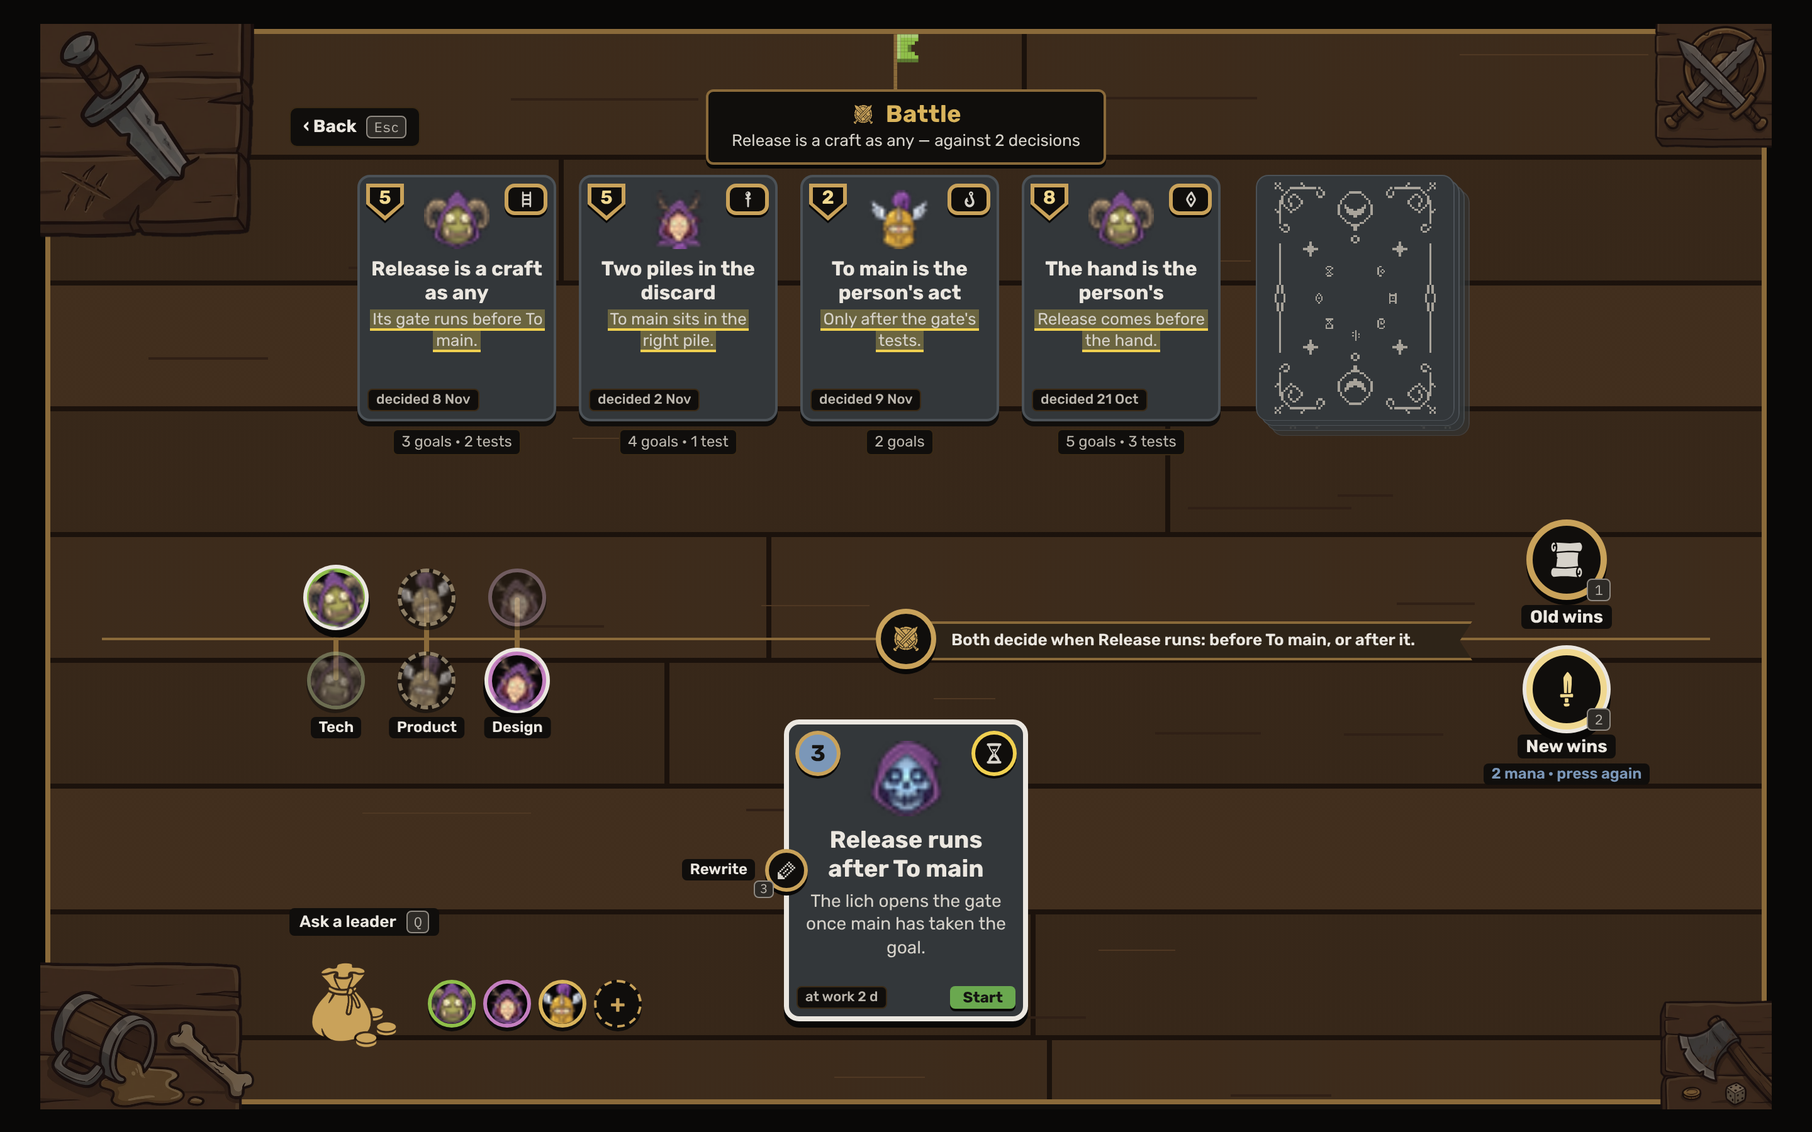
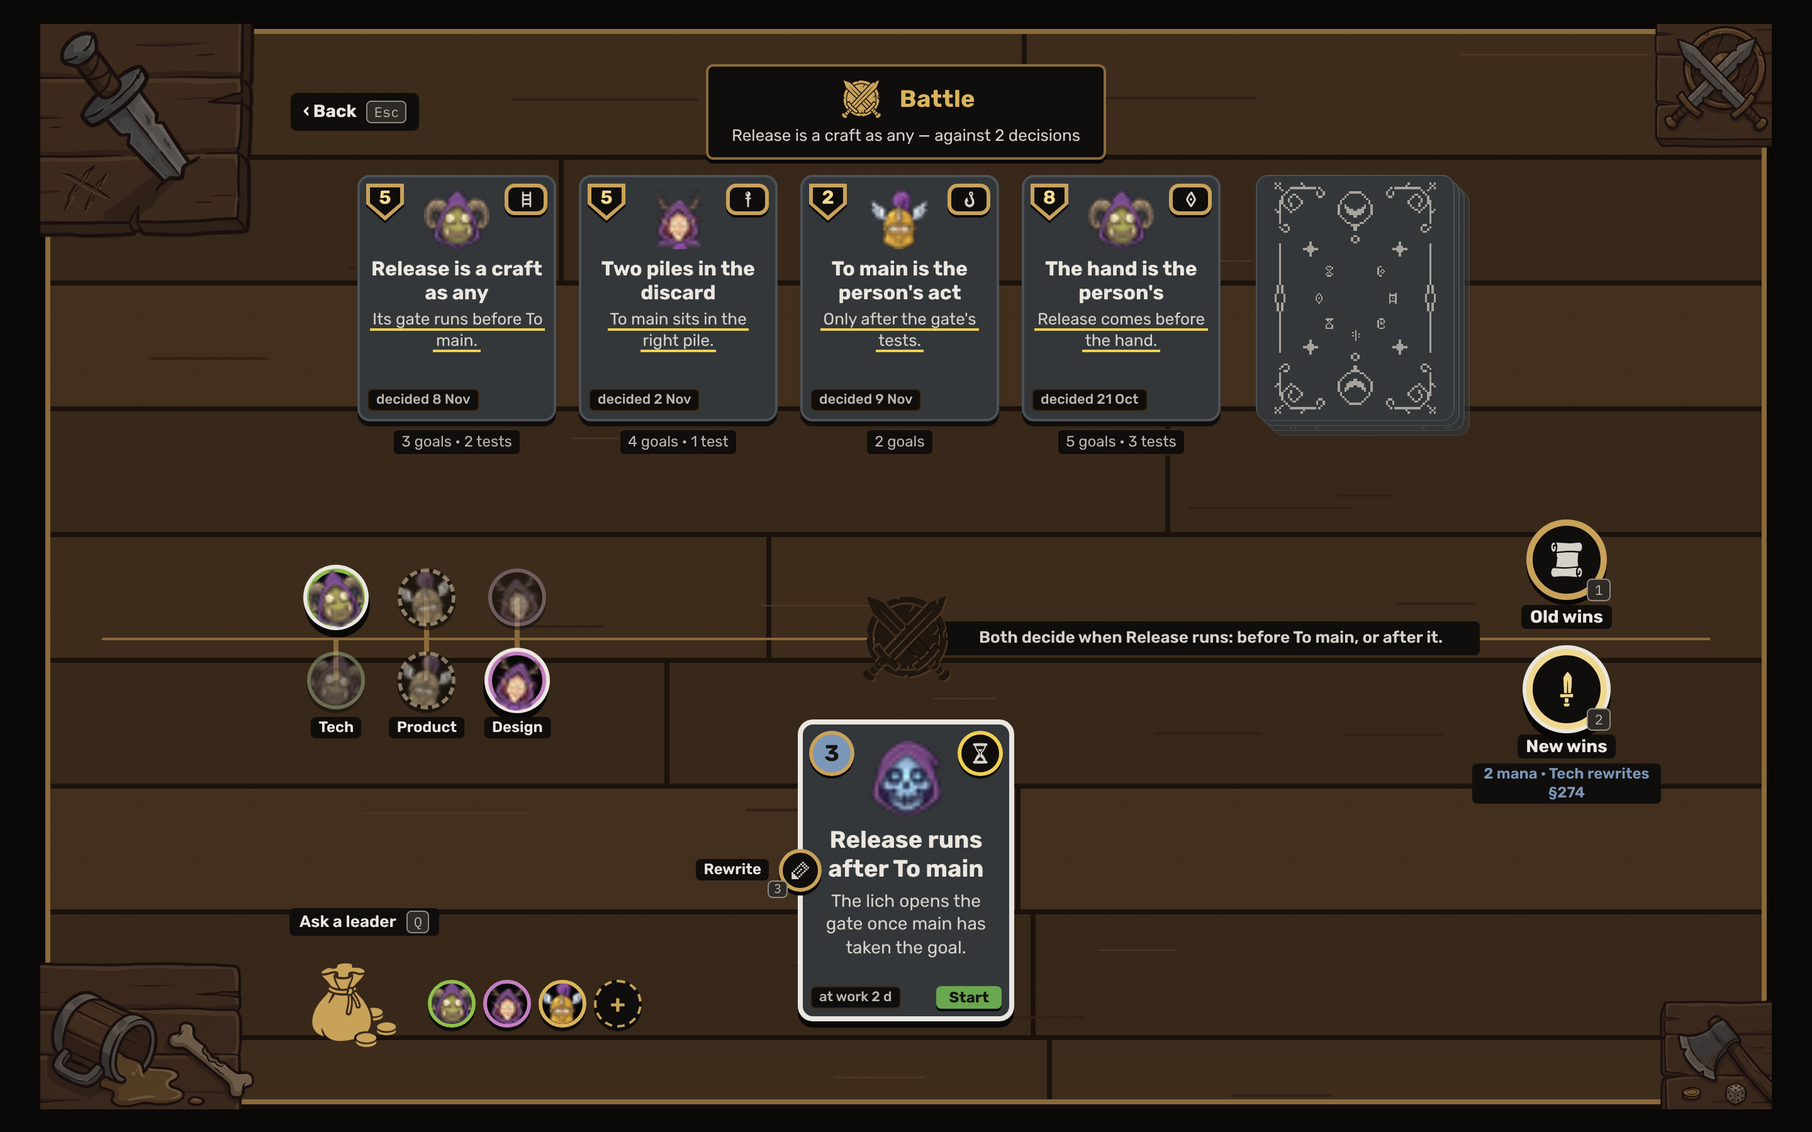
The battle field's mockup: no pennant, the emblem large in the title and carved into the table on the line; the price of New wins says what it pays for; on S the kind wins, the rune from M
Claude-Session: https://claude.ai/code/session_01MCU3dnmwpxzAdFr5WE7TTZ

diff --git a/docs/mockups/battle-field/index.html b/docs/mockups/battle-field/index.html
@@ -12,12 +12,12 @@
   --wood-c: color-mix(in srgb, var(--ork-leather) 50%, var(--ork-room)); --seam: color-mix(in srgb, var(--ork-leather-edge) 55%, var(--ork-room));
   --grain: color-mix(in srgb, var(--ork-leather-lo) 60%, var(--ork-room)); --grain-hi: color-mix(in srgb, var(--ork-leather) 62%, var(--ork-room));
   --ph: 96px; --sm: 4px;
-  --cw: 158px; --nw: 190px; --tk: 46px; --chp: 64px; --pouch: 100px; --pad: 112px; --prop: 170px; --em: 20px; }
+  --cw: 158px; --nw: 168px; --tk: 46px; --chp: 64px; --pouch: 100px; --pad: 112px; --prop: 170px; --em: 40px; }
 * { box-sizing: border-box; }
 html, body { margin: 0; height: 100%; }
 body { background: var(--ork-room); color: var(--ork-ink); font: var(--ork-type-body); overflow: hidden; }
 body[data-face="desk"] { width: 1440px; height: 900px; }
-body[data-face="phone"] { width: 390px; height: 844px; --ph: 80px; --cw: 96px; --nw: 176px; --tk: 38px; --chp: 56px; --pouch: 56px; --pad: 100px; --prop: 91px; }
+body[data-face="phone"] { width: 390px; height: 844px; --ph: 80px; --cw: 96px; --nw: 168px; --tk: 38px; --chp: 56px; --pouch: 56px; --pad: 100px; --prop: 91px; --em: 32px; }
 .stage { position: absolute; inset: 2.5%; }
 .field { position: absolute; inset: 0; border: 4px solid var(--ork-bronze); border-radius: var(--ork-radius-card); box-shadow: 0 4px 0 var(--ork-plate);
   overflow: hidden; display: flex; flex-direction: column;
@@ -34,19 +34,18 @@ body[data-face="phone"] { width: 390px; height: 844px; --ph: 80px; --cw: 96px; -
 .prop img { display: block; max-width: var(--prop); max-height: var(--prop); width: auto; height: auto; }
 .prop.tl { left: -4px; top: -4px; } .prop.tr { right: -4px; top: -4px; } .prop.bl { left: -4px; bottom: -4px; } .prop.br { right: -4px; bottom: -4px; }
 /* top */
-.top { position: absolute; top: 44px; left: 0; right: 0; display: flex; justify-content: center; z-index: 5; }
-body[data-face="desk"] .back { left: 190px; }
+.top { position: absolute; top: 24px; left: 0; right: 0; display: flex; justify-content: center; z-index: 5; }
+body[data-face="desk"] .back { left: 190px; top: 22px; }
 .back { position: absolute; top: 14px; display: flex; gap: 8px; align-items: center; padding: 6px 10px; font: var(--ork-type-button);
   background: var(--ork-plate); border: 1px solid var(--ork-bronze-lo); border-radius: var(--ork-radius-control); color: var(--ork-ink); white-space: nowrap; }
 kbd { font: 500 11px/14px var(--ork-font-code); padding: 1px 5px; border: 1px solid var(--ork-edge); border-radius: 4px; color: var(--ork-ink-muted); background: var(--ork-raised); }
 .plate { position: relative; text-align: center; padding: 6px 18px 8px; background: var(--ork-plate); border: 2px solid var(--ork-bronze); border-radius: var(--ork-radius-control); box-shadow: 0 3px 0 var(--ork-room); }
-.plate b { display: flex; justify-content: center; align-items: center; gap: 8px; font: var(--ork-type-title); letter-spacing: var(--ork-type-title-track); color: var(--ork-gilt); }
+.plate b { display: flex; justify-content: center; align-items: center; gap: 10px; min-height: var(--em); font: var(--ork-type-title); letter-spacing: var(--ork-type-title-track); color: var(--ork-gilt); }
 .plate b i { width: var(--em); height: var(--em); background: var(--ork-bronze-hi); -webkit-mask: url(emblems/battle.png) center / contain no-repeat; mask: url(emblems/battle.png) center / contain no-repeat; }
 .plate span { display: block; font: var(--ork-type-caption); color: var(--ork-ink-read); }
-.plate .ork-pennant { position: absolute; left: 50%; bottom: calc(100% + 1px); translate: -50% 0; }
 .plate .full { display: inline; } .plate .short { display: none; }
-body[data-face="phone"] .top { top: 46px; left: 98px; right: 54px; justify-content: flex-start; }
-body[data-face="phone"] .back { left: 0; top: 8px; }
+body[data-face="phone"] .top { top: 26px; left: 98px; right: 54px; justify-content: flex-start; }
+body[data-face="phone"] .back { left: 0; top: 14px; }
 body[data-face="phone"] .plate { margin-left: 74px; flex: 1; padding: 4px 8px 6px; }
 body[data-face="phone"] .plate span { font-size: 12px; line-height: 15px; }
 body[data-face="phone"] .plate .full { display: none; } body[data-face="phone"] .plate .short { display: inline; }
@@ -99,7 +98,7 @@ body[data-face="phone"] .pouchbar .row { gap: 4px; } body[data-face="phone"] .po
 
 /* ---- v3 ---- */
 :root { --ch: 196px; --g: 30px; }
-body[data-face="phone"] { --ch: 140px; --nw: 190px; }
+body[data-face="phone"] { --ch: 140px; --nw: 168px; }
 .oldz { align-items: flex-start; gap: 18px; padding-top: var(--pad); padding-bottom: 70px; }
 .newz { align-items: flex-start; padding-top: 66px; }
 .col { display: flex; flex-direction: column; align-items: center; gap: 6px; position: relative; }
@@ -108,7 +107,7 @@ body[data-face="phone"] { --ch: 140px; --nw: 190px; }
 .card .hd { width: 52px; height: 52px; object-fit: contain; flex: none; }
 .card b.t { font: 700 16px/1.2 var(--ork-font-text); }
 .card .ln { font-size: 13px; line-height: 1.35; color: var(--ork-ink-read); }
-.disp { background: color-mix(in srgb, var(--ork-alert) 30%, transparent); border-bottom: 2px solid var(--ork-alert); padding: 0 2px; -webkit-box-decoration-break: clone; box-decoration-break: clone; }
+.disp { background: none; border-bottom: 2px solid var(--ork-alert); padding: 0 2px; -webkit-box-decoration-break: clone; box-decoration-break: clone; }
 .dbar { display: none; }
 .card.sel { --g: 36px; width: var(--nw); height: auto; padding: 10px 12px 44px; gap: 5px; border-color: var(--ork-ink); box-shadow: 0 0 0 2px var(--ork-ink), 0 5px 0 2px var(--ork-room); }
 .card.sel .hd { width: 66px; height: 66px; } .card.sel b.t { font-size: 19px; } .card.sel .ln { font-size: 14px; }
@@ -153,17 +152,12 @@ body[data-face="phone"] { --ch: 140px; --nw: 190px; }
 .tk.dim { opacity: .5; filter: saturate(.35); }
 .tk.und { border-style: dashed; opacity: .6; filter: saturate(.35); }
 /* the clash */
-.medal { position: absolute; left: 50%; top: 0; width: 48px; height: 48px; translate: -50% -50%; border-radius: 50%; background: var(--ork-plate); border: 4px solid var(--ork-bronze-hi); box-shadow: 0 4px 0 var(--ork-room); z-index: 5; display: grid; place-items: center; }
-.medal i { width: 26px; height: 26px; background: var(--ork-bronze-hi); -webkit-mask: url(emblems/battle.png) center / contain no-repeat; mask: url(emblems/battle.png) center / contain no-repeat; }
-.ribbon { position: absolute; left: 50%; top: -14px; width: 450px; padding: 3px 22px 4px 36px; z-index: 4; background: var(--ork-plaque); border-top: 2px solid var(--ork-bronze); border-bottom: 2px solid var(--ork-bronze);
-  font: 600 13px/20px var(--ork-font-text); color: var(--ork-ink); clip-path: polygon(0 0, 100% 0, calc(100% - 10px) 50%, 100% 100%, 0 100%); }
 /* the move */
 .mv { position: absolute; right: 80px; display: flex; flex-direction: column; align-items: center; gap: 4px; width: 150px; text-align: center; z-index: 4; }
 .mv.up { bottom: 8px; } .mv.dn { top: 8px; }
 .mv b { font: var(--ork-type-heading); font-size: 14px; line-height: 17px; padding: 1px 7px; background: var(--ork-plate); border-radius: 4px; }
 .mv small { font: 600 12px/15px var(--ork-font-text); color: var(--ork-mana); background: var(--ork-plate); padding: 1px 6px; border-radius: 4px; }
 .mv .chip.armed { border-color: var(--ork-gilt-hi); box-shadow: 0 0 0 3px var(--ork-ink), 0 7px 0 3px var(--ork-room); }
-.plate .ork-pennant { scale: 1.4; transform-origin: 50% 100%; }
 /* states */
 body[data-state="preview-new"] .crack { display: block; }
 body[data-state="preview-new"] .oldz .gem.shield { --rim: var(--ork-ink); scale: 1.18; }
@@ -207,9 +201,23 @@ body[data-face="phone"] .pile.thin { display: block; width: 12px; height: var(--
   box-shadow: 4px 0 0 var(--ork-card-frame), 8px 0 0 var(--ork-card), 12px 0 0 var(--ork-card-frame); }
 body[data-face="phone"] .mv { right: 4px; width: 84px; }
 body[data-face="phone"] .mv b { font-size: 12px; line-height: 15px; padding: 1px 5px; } body[data-face="phone"] .mv small { font-size: 11px; line-height: 13px; padding: 1px 4px; }
-body[data-face="phone"] .medal { width: 40px; height: 40px; border-width: 3px; } body[data-face="phone"] .medal i { width: 22px; height: 22px; }
-body[data-face="phone"] .ribbon { left: 50%; translate: -50% 0; top: 52px; width: 204px; padding: 3px 8px 4px; font-size: 11px; line-height: 15px; text-align: center; clip-path: none; border-left: 2px solid var(--ork-bronze); border-right: 2px solid var(--ork-bronze); }
 body[data-face="phone"] .rewrite .lab { top: 8px; }
+
+
+/* the clash: the emblem carved into the table (a groove two steps darker than the planks, a hard 1px light edge lower-right) and plain text on a dark flat plate */
+.medal { --d: 90px; position: absolute; left: 50%; top: 0; width: var(--d); height: var(--d); translate: -50% -50%; z-index: 5; filter: drop-shadow(1px 1px 0 var(--grain-hi)); }
+.medal i { display: block; width: 100%; height: 100%; background: color-mix(in srgb, var(--wood-b) 45%, var(--ork-room)); -webkit-mask: url(emblems/battle.png) center / contain no-repeat; mask: url(emblems/battle.png) center / contain no-repeat; }
+.ribbon { position: absolute; left: 50%; top: -14px; width: 456px; padding: 3px 14px 4px 58px; z-index: 4; background: var(--ork-plate); border-radius: 4px; font: 600 13px/20px var(--ork-font-text); color: var(--ork-ink-read); }
+body[data-face="phone"] .medal { --d: 64px; }
+body[data-face="phone"] .ribbon { left: 40px; translate: none; top: 52px; width: 196px; padding: 3px 8px 4px; font-size: 11px; line-height: 15px; text-align: left; }
+body[data-face="phone"] .mv { right: 2px; width: 96px; }
+body[data-face="phone"] .newz { padding-top: 114px; }
+body[data-face="phone"] .dbar { height: 2px; }
+/* on S the kind wins, the rune from M: a small card's top-right gem shows the kind sign (the decree), the larger card shows the rune */
+.gem .ks { display: none; width: 62%; height: 62%; background: var(--ork-ink-read); -webkit-mask: url(../../../design-system/orkui/signs/page.svg) center / contain no-repeat; mask: url(../../../design-system/orkui/signs/page.svg) center / contain no-repeat; }
+body[data-face="phone"] .card:not(.sel) .gem .ru { display: none; }
+body[data-face="phone"] .card:not(.sel) .gem .ks { display: block; width: 66%; height: 66%; }
+.disp { background: none; }
 </style>
 </head>
 <body data-face="desk">
@@ -220,14 +228,14 @@ body[data-face="phone"] .rewrite .lab { top: 8px; }
 
   <div class="top">
     <span class="back">‹ Back <kbd>Esc</kbd></span>
-    <div class="plate"><span class="ork-pennant" data-party="tech" aria-hidden="true"></span><b><i aria-hidden="true"></i>Battle</b><span><em class="full" style="font-style:normal">Release is a craft as any — against 2 decisions</em><em class="short" style="font-style:normal">against 2 decisions</em></span></div>
+    <div class="plate"><b><i aria-hidden="true"></i>Battle</b><span><em class="full" style="font-style:normal">Release is a craft as any — against 2 decisions</em><em class="short" style="font-style:normal">against 2 decisions</em></span></div>
   </div>
 
   <div class="zone oldz">
-<div class="col"><div class="card" data-kind="decision"><span class="gw tl"><span class="gem shield"><i class="in">5</i></span></span><span class="gw tr"><span class="gem rect"><i class="in"><i class="ru" style="--m:url(../../../design-system/orkui/runes/ladder.svg)"></i></i></span></span><img class="hd" src="../../../design-system/orkui/races/shaman-elder.png" alt=""><b class="t">Release is a craft as any</b><i class="dbar"></i><span class="ln"><span class="disp">Its gate runs before To main.</span></span><span class="when"><em style="font-style:normal" class="full">decided </em>8 Nov</span><svg class="crack" viewBox="0 0 100 140" preserveAspectRatio="none" aria-hidden="true"><polyline points="12,0 28,30 18,52 40,78 30,104 52,140"/><polyline points="78,0 66,24 80,50 62,70 74,96 60,140"/></svg></div><span class="rest"><span class="n">3 goals · 2 tests</span><span class="p">re-check 3 goals · 2 tests</span><span class="pp">re-check 5</span></span></div>
-<div class="col"><div class="card" data-kind="decision"><span class="gw tl"><span class="gem shield"><i class="in">5</i></span></span><span class="gw tr"><span class="gem rect"><i class="in"><i class="ru" style="--m:url(../../../design-system/orkui/runes/staff.svg)"></i></i></span></span><img class="hd" src="../../../design-system/orkui/races/dryad-elder.png" alt=""><b class="t">Two piles in the discard</b><i class="dbar"></i><span class="ln"><span class="disp">To main sits in the right pile.</span></span><span class="when"><em style="font-style:normal" class="full">decided </em>2 Nov</span><svg class="crack" viewBox="0 0 100 140" preserveAspectRatio="none" aria-hidden="true"><polyline points="50,0 40,28 58,56 44,86 60,112 48,140"/><polyline points="90,20 76,44 88,70 72,96"/></svg></div><span class="rest"><span class="n">4 goals · 1 test</span><span class="p">re-check 4 goals · 1 test</span><span class="pp">re-check 5</span></span></div>
-<div class="col"><div class="card" data-kind="decision"><span class="gw tl"><span class="gem shield"><i class="in">2</i></span></span><span class="gw tr"><span class="gem rect"><i class="in"><i class="ru" style="--m:url(../../../design-system/orkui/runes/hook.svg)"></i></i></span></span><img class="hd" src="../../../design-system/orkui/races/unicorn-elder.png" alt=""><b class="t">To main is the person's act</b><i class="dbar"></i><span class="ln"><span class="disp">Only after the gate's tests.</span></span><span class="when"><em style="font-style:normal" class="full">decided </em>9 Nov</span><svg class="crack" viewBox="0 0 100 140" preserveAspectRatio="none" aria-hidden="true"><polyline points="20,0 34,26 24,56 42,84 32,116 46,140"/><polyline points="70,0 82,30 66,58 80,88"/></svg></div><span class="rest"><span class="n">2 goals</span><span class="p">re-check 2 goals</span><span class="pp">re-check 2</span></span></div>
-<div class="col desk-only"><div class="card" data-kind="decision"><span class="gw tl"><span class="gem shield"><i class="in">8</i></span></span><span class="gw tr"><span class="gem rect"><i class="in"><i class="ru" style="--m:url(../../../design-system/orkui/runes/diamond.svg)"></i></i></span></span><img class="hd" src="../../../design-system/orkui/races/shaman-elder.png" alt=""><b class="t">The hand is the person's</b><i class="dbar"></i><span class="ln"><span class="disp">Release comes before the hand.</span></span><span class="when"><em style="font-style:normal" class="full">decided </em>21 Oct</span><svg class="crack" viewBox="0 0 100 140" preserveAspectRatio="none" aria-hidden="true"><polyline points="8,10 26,34 16,64 38,92 28,120 40,140"/><polyline points="64,0 74,28 60,54 78,82 66,112"/></svg></div><span class="rest"><span class="n">5 goals · 3 tests</span><span class="p">re-check 5 goals · 3 tests</span><span class="pp">re-check 8</span></span></div>
+<div class="col"><div class="card" data-kind="decision"><span class="gw tl"><span class="gem shield"><i class="in">5</i></span></span><span class="gw tr"><span class="gem rect"><i class="in"><i class="ru" style="--m:url(../../../design-system/orkui/runes/ladder.svg)"></i><i class="ks"></i></i></span></span><img class="hd" src="../../../design-system/orkui/races/shaman-elder.png" alt=""><b class="t">Release is a craft as any</b><i class="dbar"></i><span class="ln"><span class="disp">Its gate runs before To main.</span></span><span class="when"><em style="font-style:normal" class="full">decided </em>8 Nov</span><svg class="crack" viewBox="0 0 100 140" preserveAspectRatio="none" aria-hidden="true"><polyline points="12,0 28,30 18,52 40,78 30,104 52,140"/><polyline points="78,0 66,24 80,50 62,70 74,96 60,140"/></svg></div><span class="rest"><span class="n">3 goals · 2 tests</span><span class="p">re-check 3 goals · 2 tests</span><span class="pp">re-check 5</span></span></div>
+<div class="col"><div class="card" data-kind="decision"><span class="gw tl"><span class="gem shield"><i class="in">5</i></span></span><span class="gw tr"><span class="gem rect"><i class="in"><i class="ru" style="--m:url(../../../design-system/orkui/runes/staff.svg)"></i><i class="ks"></i></i></span></span><img class="hd" src="../../../design-system/orkui/races/dryad-elder.png" alt=""><b class="t">Two piles in the discard</b><i class="dbar"></i><span class="ln"><span class="disp">To main sits in the right pile.</span></span><span class="when"><em style="font-style:normal" class="full">decided </em>2 Nov</span><svg class="crack" viewBox="0 0 100 140" preserveAspectRatio="none" aria-hidden="true"><polyline points="50,0 40,28 58,56 44,86 60,112 48,140"/><polyline points="90,20 76,44 88,70 72,96"/></svg></div><span class="rest"><span class="n">4 goals · 1 test</span><span class="p">re-check 4 goals · 1 test</span><span class="pp">re-check 5</span></span></div>
+<div class="col"><div class="card" data-kind="decision"><span class="gw tl"><span class="gem shield"><i class="in">2</i></span></span><span class="gw tr"><span class="gem rect"><i class="in"><i class="ru" style="--m:url(../../../design-system/orkui/runes/hook.svg)"></i><i class="ks"></i></i></span></span><img class="hd" src="../../../design-system/orkui/races/unicorn-elder.png" alt=""><b class="t">To main is the person's act</b><i class="dbar"></i><span class="ln"><span class="disp">Only after the gate's tests.</span></span><span class="when"><em style="font-style:normal" class="full">decided </em>9 Nov</span><svg class="crack" viewBox="0 0 100 140" preserveAspectRatio="none" aria-hidden="true"><polyline points="20,0 34,26 24,56 42,84 32,116 46,140"/><polyline points="70,0 82,30 66,58 80,88"/></svg></div><span class="rest"><span class="n">2 goals</span><span class="p">re-check 2 goals</span><span class="pp">re-check 2</span></span></div>
+<div class="col desk-only"><div class="card" data-kind="decision"><span class="gw tl"><span class="gem shield"><i class="in">8</i></span></span><span class="gw tr"><span class="gem rect"><i class="in"><i class="ru" style="--m:url(../../../design-system/orkui/runes/diamond.svg)"></i><i class="ks"></i></i></span></span><img class="hd" src="../../../design-system/orkui/races/shaman-elder.png" alt=""><b class="t">The hand is the person's</b><i class="dbar"></i><span class="ln"><span class="disp">Release comes before the hand.</span></span><span class="when"><em style="font-style:normal" class="full">decided </em>21 Oct</span><svg class="crack" viewBox="0 0 100 140" preserveAspectRatio="none" aria-hidden="true"><polyline points="8,10 26,34 16,64 38,92 28,120 40,140"/><polyline points="64,0 74,28 60,54 78,82 66,112"/></svg></div><span class="rest"><span class="n">5 goals · 3 tests</span><span class="p">re-check 5 goals · 3 tests</span><span class="pp">re-check 8</span></span></div>
     <div class="col"><div class="pile" aria-hidden="true"><div class="ork-card-back"></div><div class="ork-card-back"></div><div class="ork-card-back"></div><div class="ork-card-back"></div></div><div class="pile thin" aria-hidden="true"></div></div>
   </div>
 
@@ -241,7 +249,7 @@ body[data-face="phone"] .rewrite .lab { top: 8px; }
       <div class="lc design"><i class="tie"></i><span class="tk was design dim"><img src="../../../design-system/orkui/races/dryad-elder.png" alt="Design's leader does not back the old card"></span><span class="tk is design lit"><img src="../../../design-system/orkui/races/dryad-elder.png" alt="Design's leader backs the new card"></span><span class="lab desk-only">Design</span></div>
     </div>
     <div class="mv up"><span class="chip" style="--m:url(../../../design-system/orkui/signs/page.svg)"><i></i><kbd>1</kbd></span><b>Old wins</b></div>
-    <div class="mv dn"><span class="chip armed" style="--m:url(../../../design-system/orkui/signs/sword.svg)"><i></i><kbd>2</kbd></span><b>New wins</b><small>2 mana · press again</small></div>
+    <div class="mv dn"><span class="chip armed" style="--m:url(../../../design-system/orkui/signs/sword.svg)"><i></i><kbd>2</kbd></span><b>New wins</b><small>2 mana · Tech rewrites §274</small></div>
   </div>
 
   <div class="zone newz">
@@ -260,7 +268,7 @@ body[data-face="phone"] .rewrite .lab { top: 8px; }
 </div>
 <div class="veil" aria-hidden="true"></div>
 <div class="lift"><span class="close">Esc · Back</span>
-  <div class="card" data-kind="decision"><span class="gw tl"><span class="gem shield"><i class="in">5</i></span></span><span class="gw tr"><span class="gem rect"><i class="in"><i class="ru" style="--m:url(../../../design-system/orkui/runes/ladder.svg)"></i></i></span></span><img class="hd" src="../../../design-system/orkui/races/shaman-elder.png" alt=""><b class="t">Release is a craft as any</b>
+  <div class="card" data-kind="decision"><span class="gw tl"><span class="gem shield"><i class="in">5</i></span></span><span class="gw tr"><span class="gem rect"><i class="in"><i class="ru" style="--m:url(../../../design-system/orkui/runes/ladder.svg)"></i><i class="ks"></i></i></span></span><img class="hd" src="../../../design-system/orkui/races/shaman-elder.png" alt=""><b class="t">Release is a craft as any</b>
     <span class="ln">Release is a craft as any other: it has its own party, its race and its gate. <span class="disp">Its gate runs before To main</span>, so the person decides To main with the gate's tests in hand.</span>
     <span class="sec">What rests on it</span>
     <ul><li>goal/pennant-colours · goal/release-order · goal/gate-record</li><li>test_gate_before_main · test_release_craft</li></ul>
